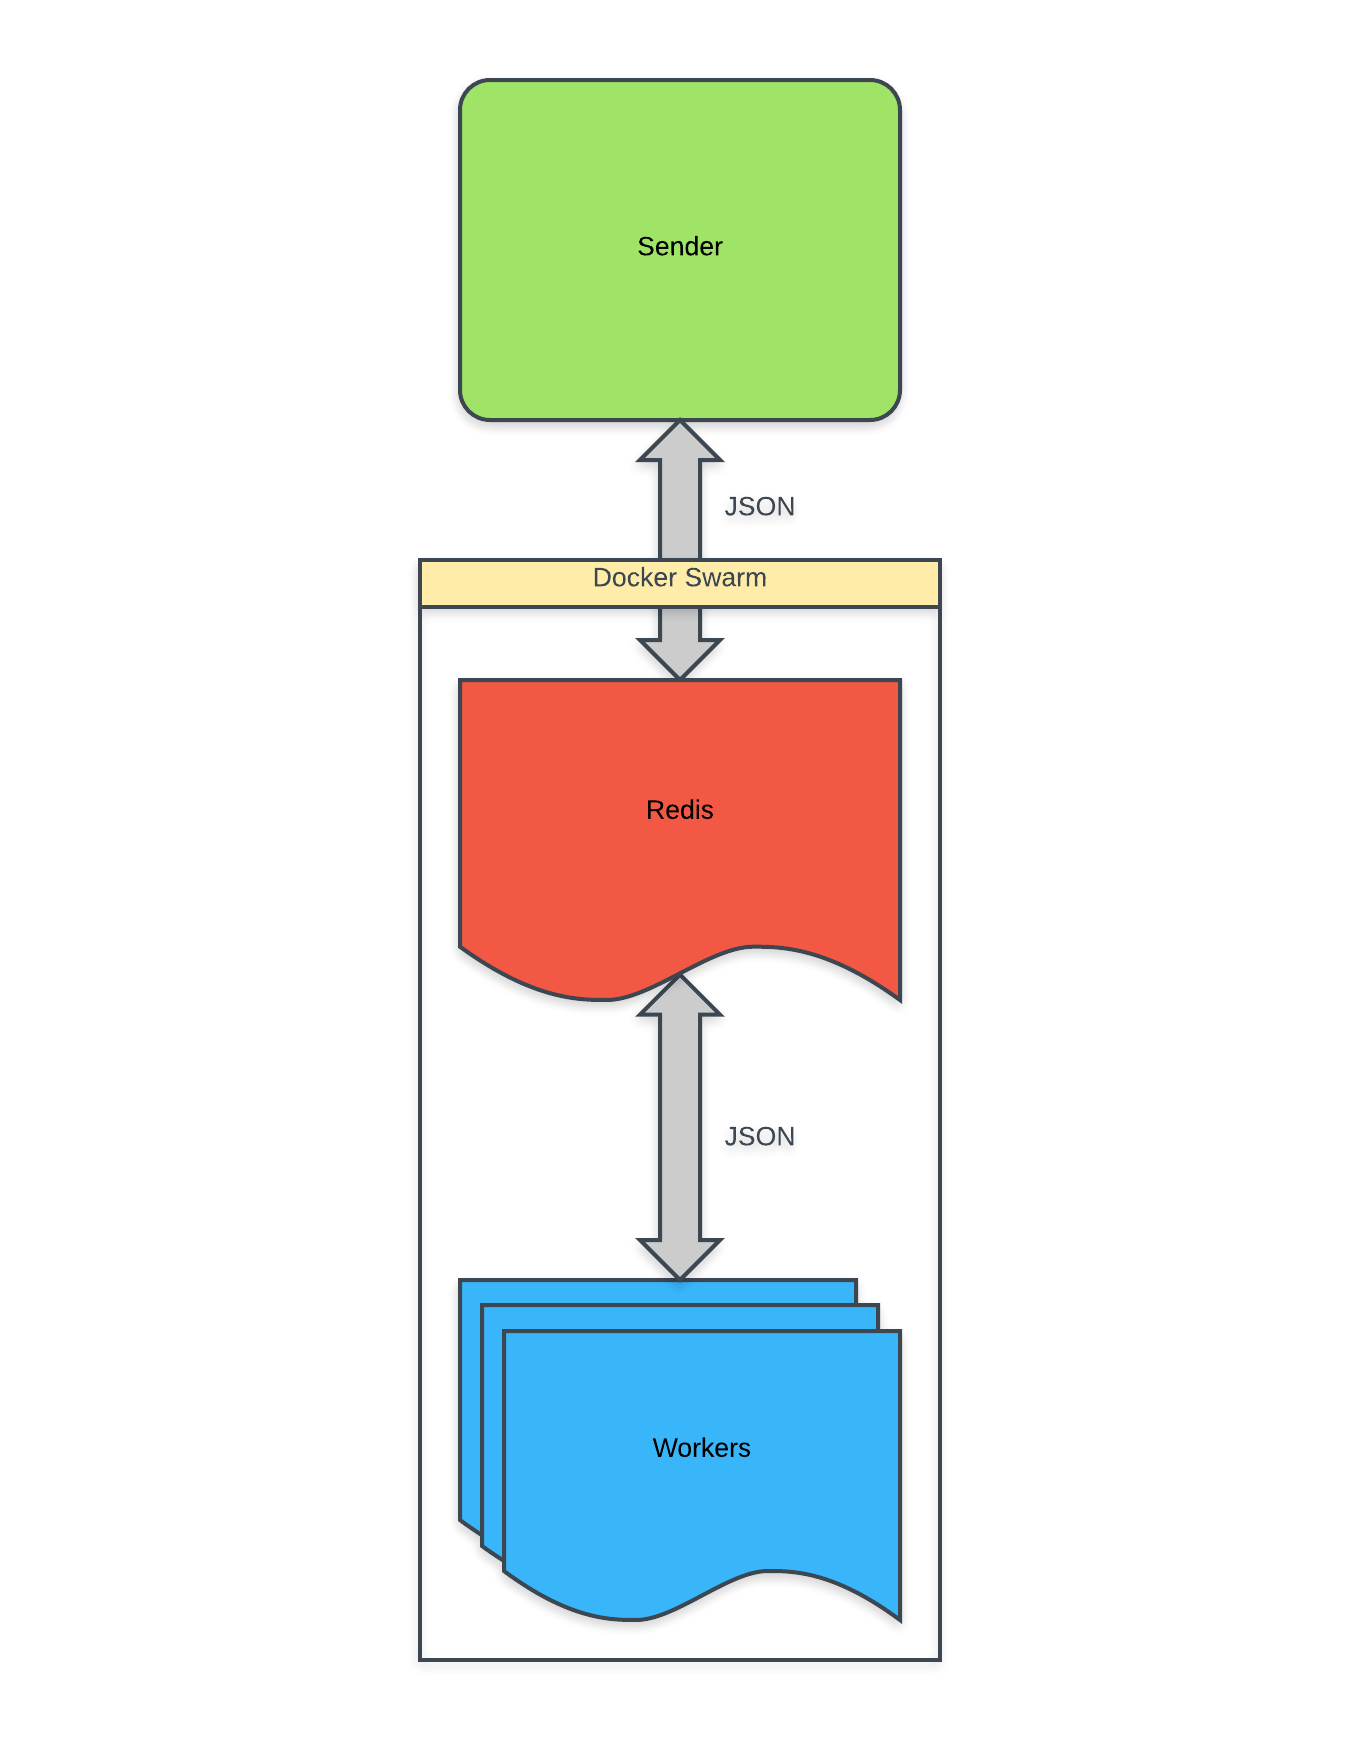
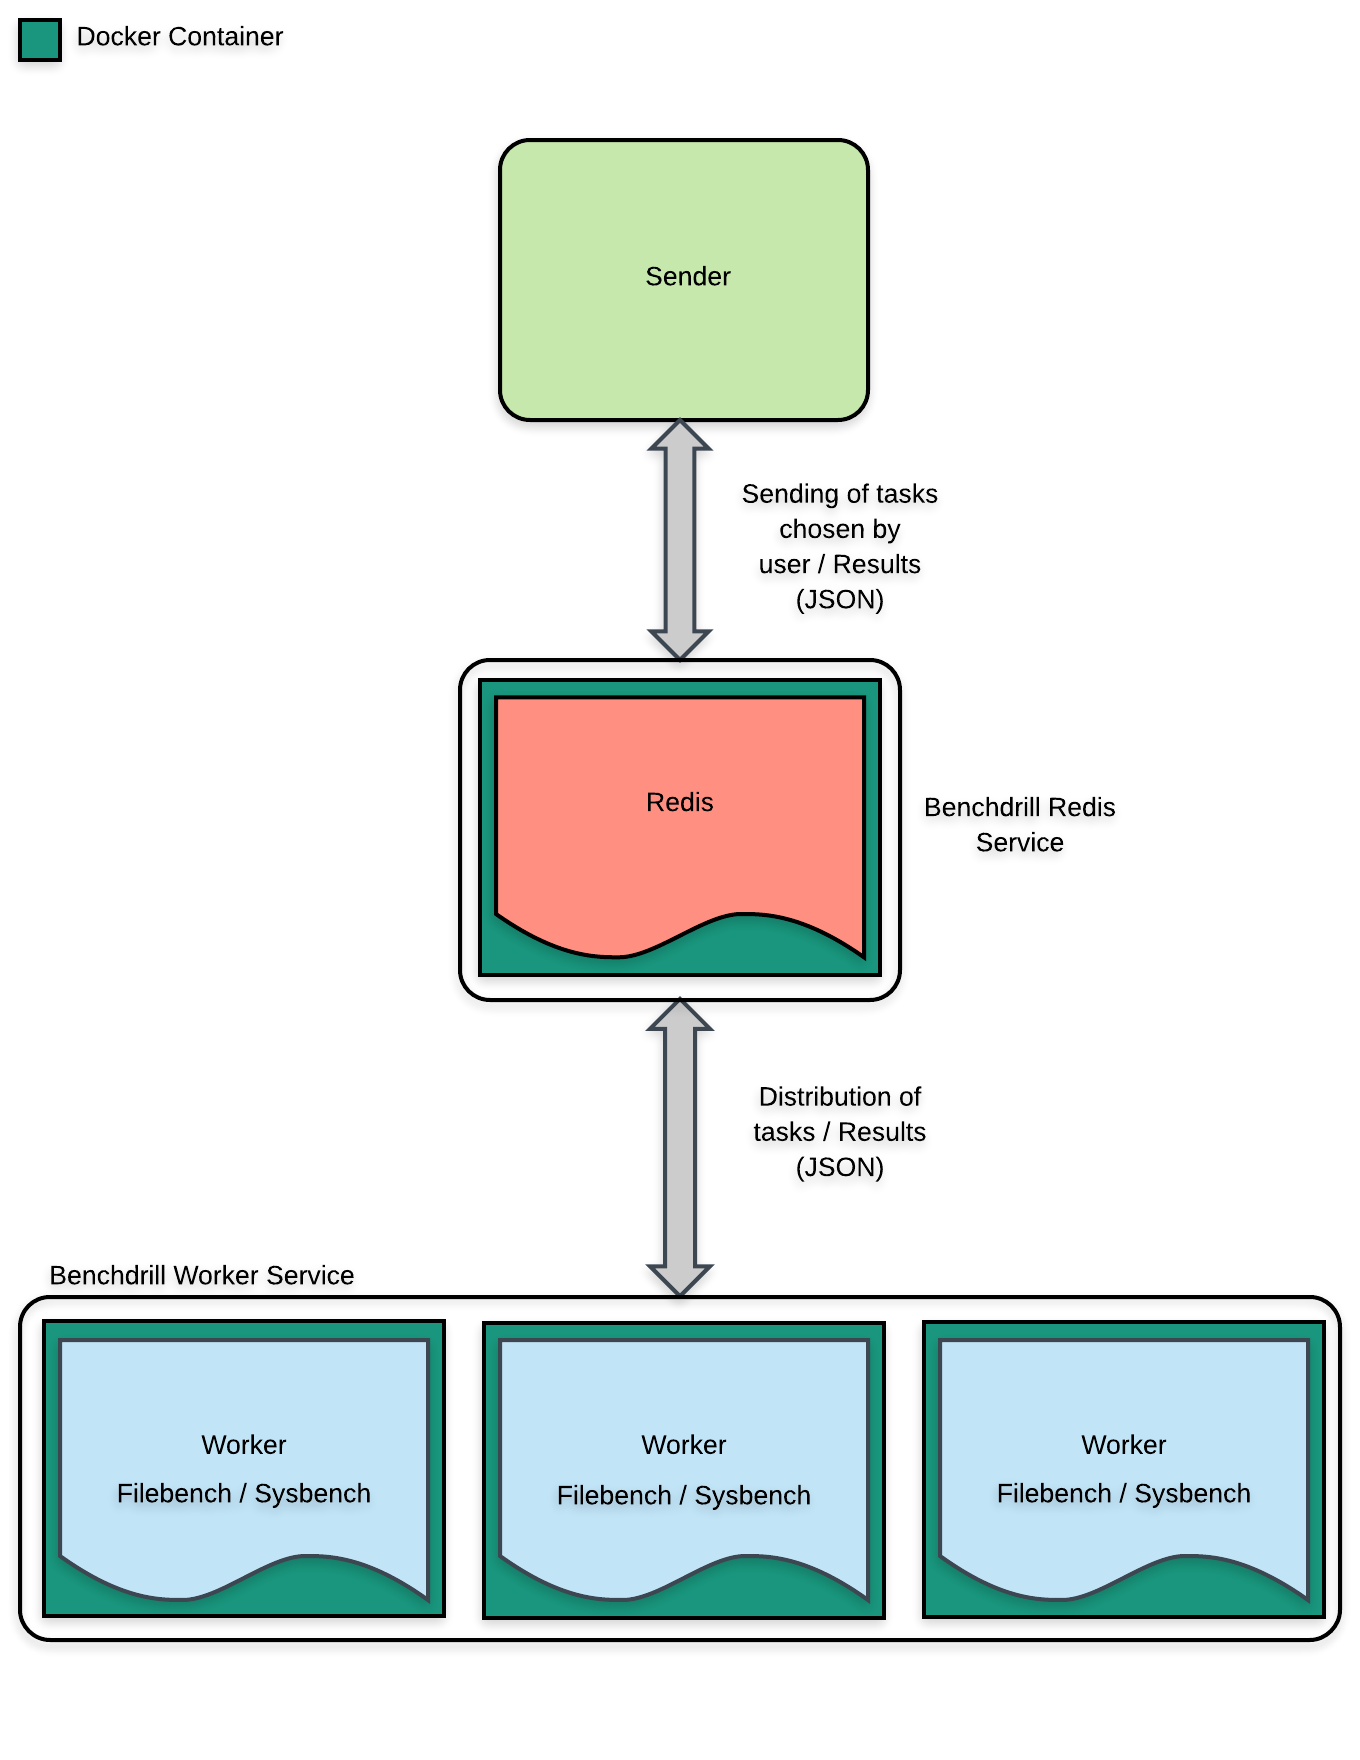
Update documentation and some paths in sources

diff --git a/cmd/benchdrill.go b/cmd/benchdrill.go
@@ -6,7 +6,7 @@ import (
 	"os"
 	"time"
 
-	"git.rnd.alterway.fr/Wolphin-project/benchdrill/pkg"
+	"github.com/Wolphin-project/benchdrill/pkg"
 
 	"github.com/RichardKnop/machinery/v1"
 	"github.com/RichardKnop/machinery/v1/config"

diff --git a/README.md b/README.md
@@ -32,7 +32,7 @@ This command will send the command quoted 3 times as 3 separate and identical ta
 
 ![Architecture schema of Benchdrill](architecture_schema.png)
 
-The sender sends his jobs to the message broker Redis, which distribute it among the workers in parallel. After finishing their jobs, workers send the results to Redis which transmits it back to the sender. Redis and each worker are in separate Docker container on the same cluster.
+Both Redis and Worker services are in a Docker Swarm. A Swarm is a cluster in which each node is a Docker engine. A node can be a manager or a worker. In Swarm mode concepts are not about containers but about services. A service is the a task a manager or a worker has to execute. It can be several identical containers distributed across nodes. In our case, the Redis service is composed of a unique container, but the Worker service has several identical containers and can be scaled up or down with a `docker stack` command. More information about Docker Swarm [here](https://docs.docker.com/engine/swarm/).
 
 ## License
 Mozilla Public License 2.0
